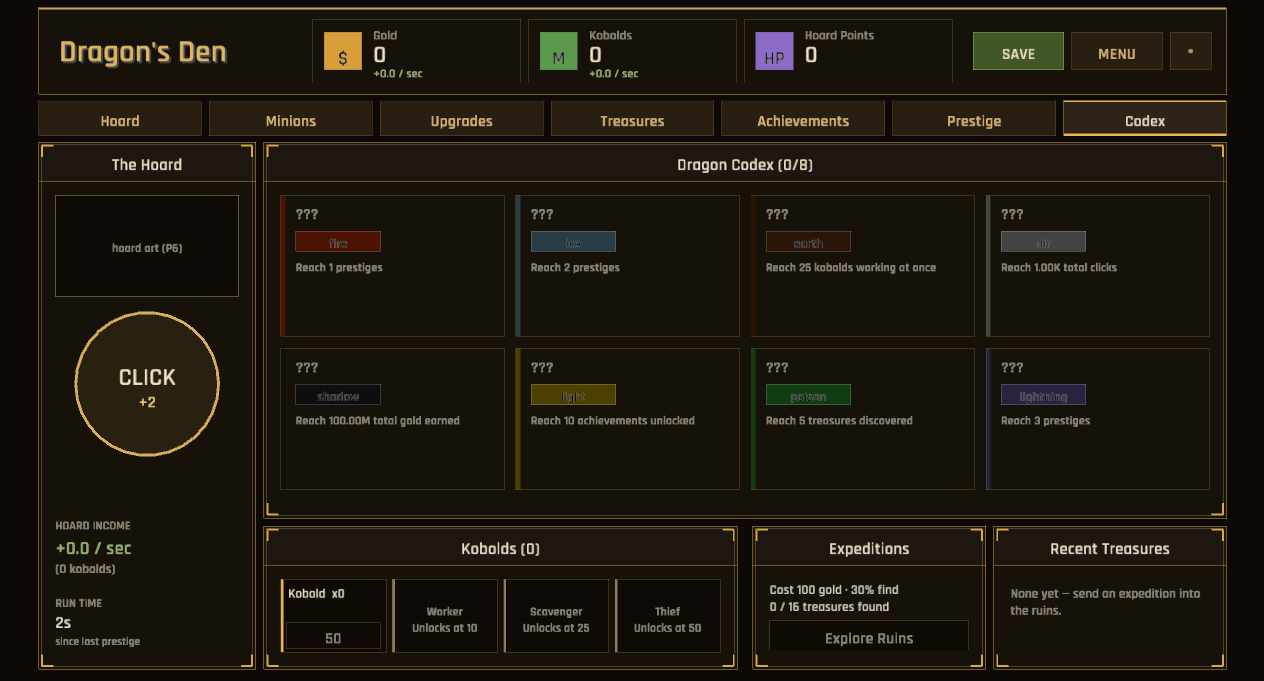
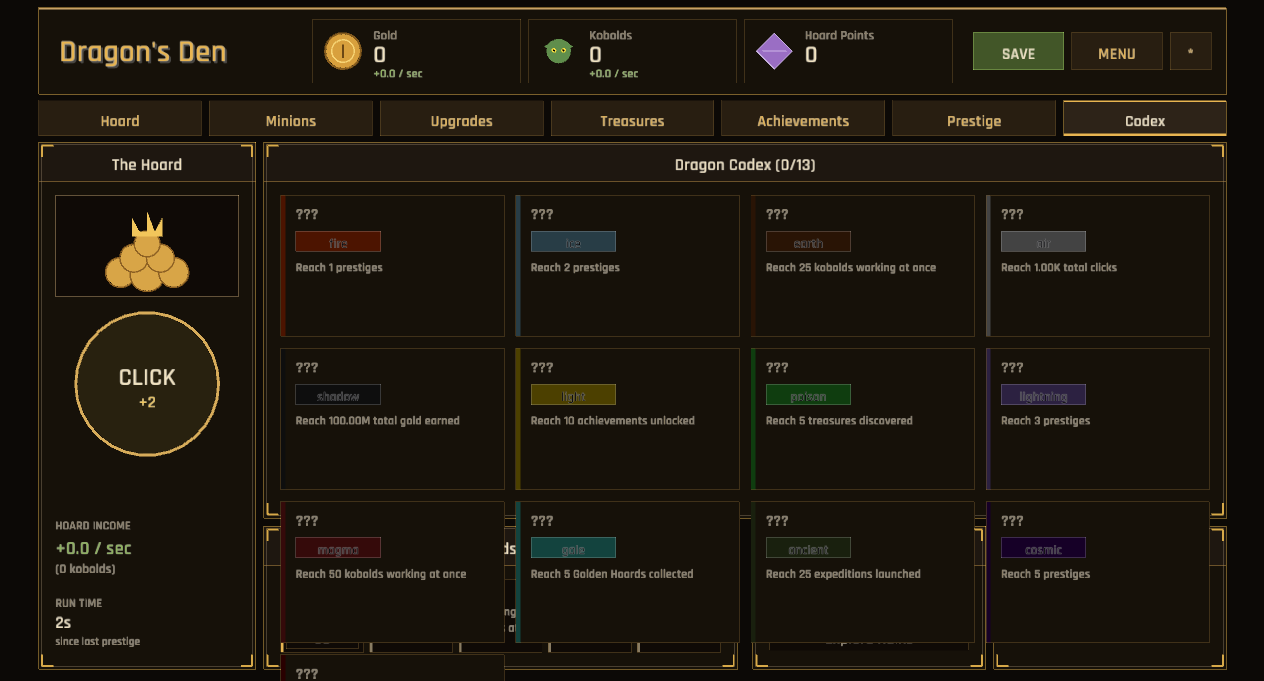
Content depth: codex dragons 8 -> 13
Extend the dragon codex so the collect-a-dragon chase reaches deep into the
new mechanics and late game.

- Five new dragons: Molten Colossus (50 kobolds — the first minion_efficiency
  dragon), Tempest Roc (5 Golden Hoards collected, #9), Ruin Serpent (25
  expeditions launched, #8), Astral Leviathan (prestige 5) and Worldeater
  Wyrm (trillion gold) — the latter two the first all_gold codex bonuses.
  Fresh elements/colors (magma, gale, ancient, cosmic, void).
- Loader smoke test relaxed from == 8 to >= 12 so the codex can keep growing.

Dragons unlock through check_unlocks, which the balance sim never calls, so
the guards are unaffected. Validation: cargo test (48), clippy, fmt all
clean. Codex tab captured — header now 0/13, new dragons show distinct
element badges and their new-stat unlock hints ("Golden Hoards collected",
"expeditions launched") with no overflow.

diff --git a/src/data.rs b/src/data.rs
@@ -194,7 +194,7 @@ mod tests {
         assert!(data.prestige_upgrades.len() >= 8);
         assert!(data.treasures.len() >= 15);
         assert!(data.achievements.len() >= 20);
-        assert_eq!(data.dragons.len(), 8);
+        assert!(data.dragons.len() >= 12);
     }
 
     #[test]

diff --git a/ENGAGEMENT_REVIEW.md b/ENGAGEMENT_REVIEW.md
@@ -78,8 +78,16 @@ ways to make it entertaining. All numbers are the ones actually shipping in
 > ladder (clicks 50k, trillion gold, 100/200 kobolds tying into the #11
 > soft-cap wall, 150 upgrades, prestige 3/25/50, a 30-achievement
 > Completionist). `StatKey` + `condition_text` + `stat_value` extended to
-> match. Next content-depth targets: **codex dragons 8 → 12+**, a 5th/6th
-> minion tier for deep prestige, more prestige-tree tiers per branch.
+> match.
+>
+> **Content depth — codex dragons 8 → 13:** five new dragons spanning the new
+> mechanics and deep stats — Tempest Roc (5 Golden Hoards, #9), Ruin Serpent
+> (25 expeditions, #8), Molten Colossus (50 kobolds, the first
+> `minion_efficiency` dragon), Astral Leviathan (prestige 5) and Worldeater
+> Wyrm (trillion gold) — the last two the first `all_gold` codex bonuses.
+> Dragons unlock via `check_unlocks`, which the balance sim never runs, so
+> guards are untouched. Next content-depth targets: a 5th/6th minion tier for
+> deep prestige, more prestige-tree tiers per branch, more run-upgrade lines.
 
 ---
 
